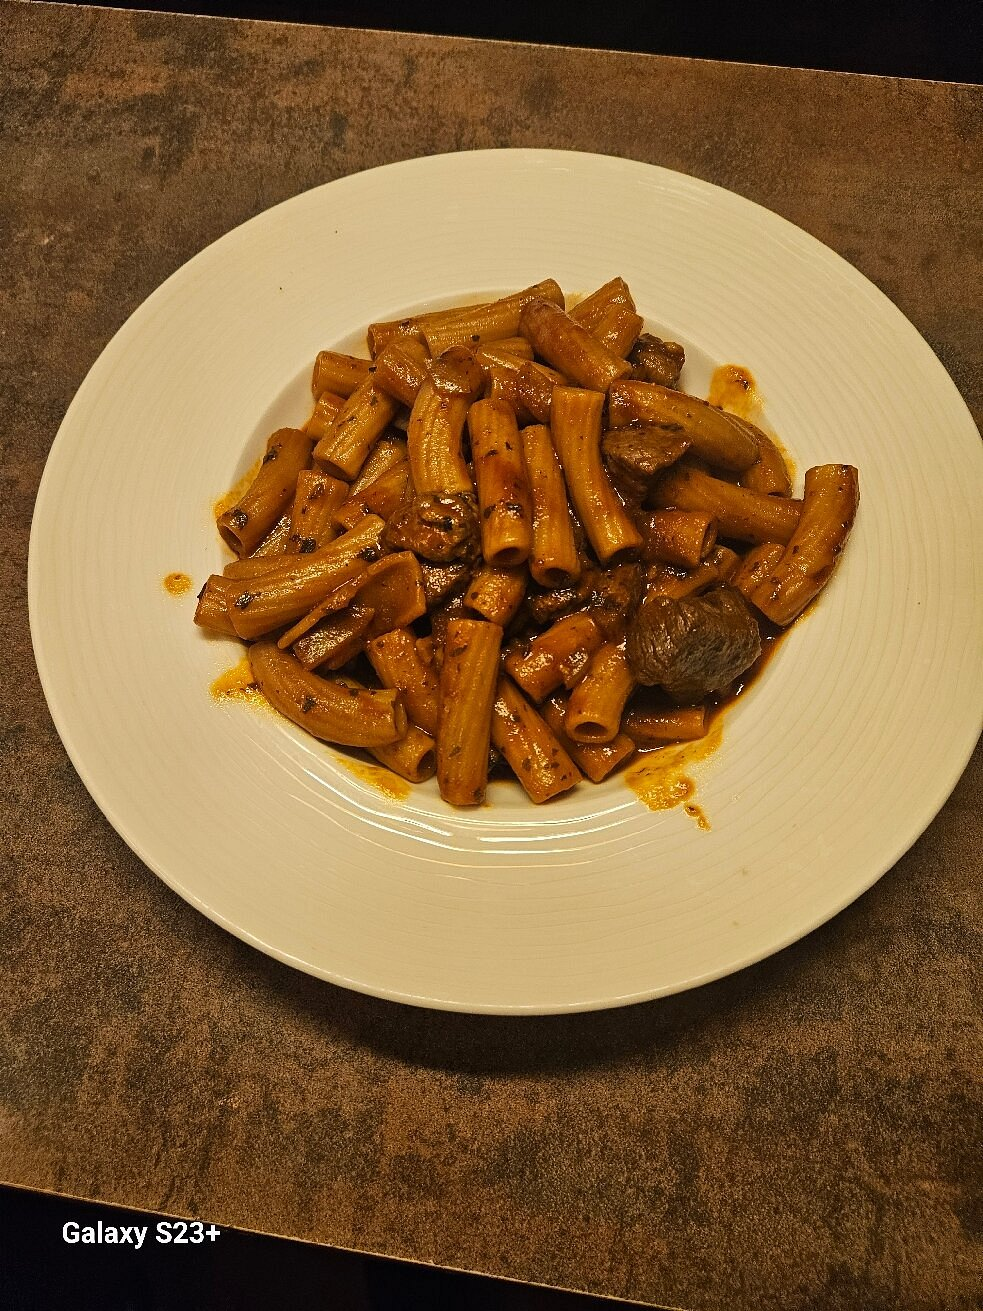
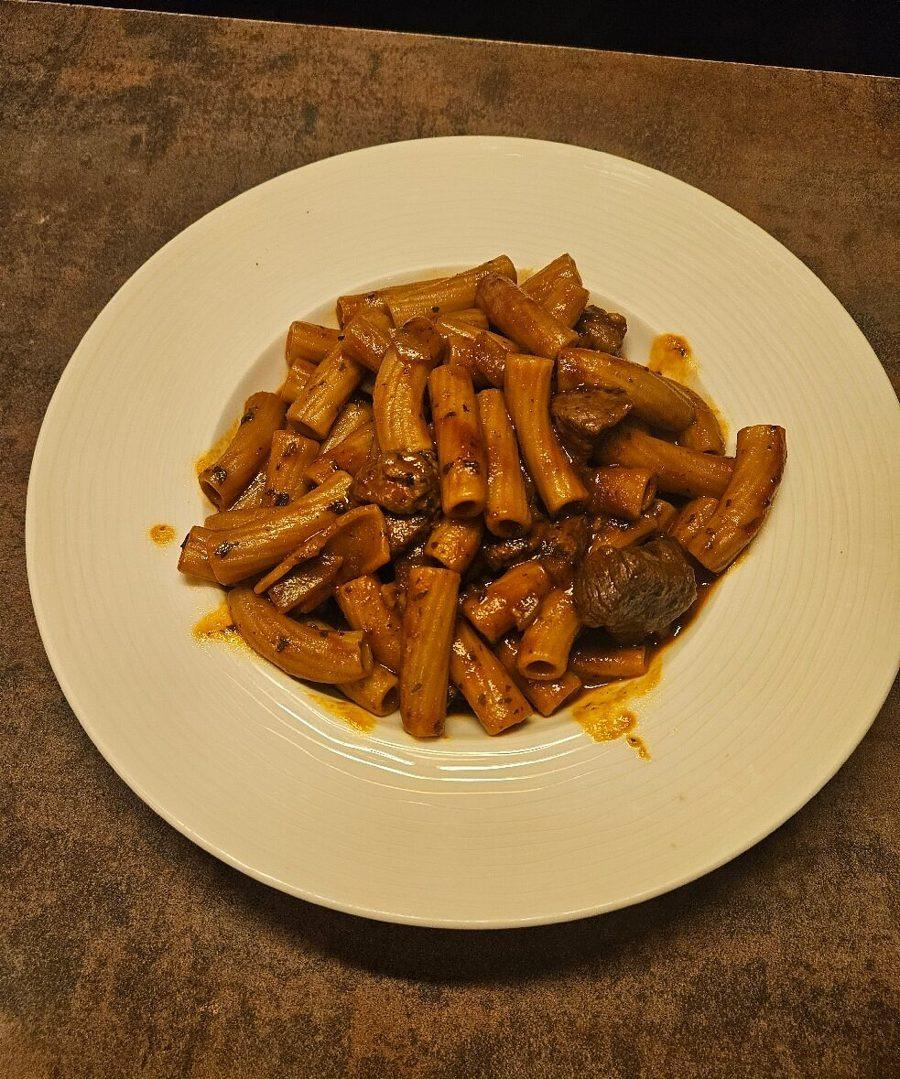
Replace static gallery grid with an auto-scrolling photo marquee
Use the uploaded food1-3 photos in an infinite CSS marquee instead of
static placeholder tiles, per feedback that the grid felt too static.
Pauses on hover, falls back to a plain scrollable strip under
prefers-reduced-motion. Cropped the phone-camera watermark off food1
and re-compressed all three for web (~700KB -> ~190KB avg).

Claude-Session: https://claude.ai/code/session_01Td6RcPkwgkbAMLhnpuJDpR

diff --git a/css/style.css b/css/style.css
@@ -400,13 +400,43 @@ img { max-width: 100%; display: block; }
 /* ---------- Gallery ---------- */
 .gallery { padding: 96px 0; }
 .gallery h2 { font-size: 2.3rem; }
-.gallery-grid {
-  display: grid;
-  grid-template-columns: repeat(3, 1fr);
-  gap: 20px;
-  margin-top: 40px;
+
+.marquee {
+  width: 100vw;
+  position: relative;
+  left: 50%;
+  transform: translateX(-50%);
+  overflow: hidden;
+  margin-top: 44px;
+  mask-image: linear-gradient(90deg, transparent 0, black 80px, black calc(100% - 80px), transparent 100%);
+  -webkit-mask-image: linear-gradient(90deg, transparent 0, black 80px, black calc(100% - 80px), transparent 100%);
 }
-.gallery-item { aspect-ratio: 4 / 3; }
+.marquee-track {
+  display: flex;
+  width: max-content;
+  gap: 20px;
+  padding: 0 20px;
+  animation: marquee-scroll 34s linear infinite;
+}
+.marquee:hover .marquee-track { animation-play-state: paused; }
+.marquee-track img {
+  flex: 0 0 auto;
+  width: 260px;
+  height: 340px;
+  object-fit: cover;
+  border-radius: 4px;
+  box-shadow: 0 8px 24px rgba(22, 50, 74, .12);
+}
+@keyframes marquee-scroll {
+  from { transform: translateX(0); }
+  to { transform: translateX(-50%); }
+}
+@media (prefers-reduced-motion: reduce) {
+  .marquee-track { animation: none; overflow-x: auto; }
+}
+@media (max-width: 640px) {
+  .marquee-track img { width: 200px; height: 260px; }
+}
 
 /* ---------- Contact ---------- */
 .contact { padding: 96px 0; background: var(--pale-blue); }

diff --git a/index.html b/index.html
@@ -135,13 +135,15 @@
     <div class="container">
       <p class="section-eyebrow">Impressionen</p>
       <h2>Ein Blick in unser Ristorante</h2>
-      <div class="gallery-grid">
-        <div class="placeholder-box gallery-item"><p>Foto folgt</p></div>
-        <div class="placeholder-box gallery-item"><p>Foto folgt</p></div>
-        <div class="placeholder-box gallery-item"><p>Foto folgt</p></div>
-        <div class="placeholder-box gallery-item"><p>Foto folgt</p></div>
-        <div class="placeholder-box gallery-item"><p>Foto folgt</p></div>
-        <div class="placeholder-box gallery-item"><p>Foto folgt</p></div>
+    </div>
+    <div class="marquee">
+      <div class="marquee-track">
+        <img src="images/food1.jpg" alt="Rigatoni mit Fleischragù">
+        <img src="images/food2.jpg" alt="Hausgemachtes Tiramisu">
+        <img src="images/food3.jpg" alt="Tagliatelle mit Gambero und Kirschtomaten">
+        <img src="images/food1.jpg" alt="" aria-hidden="true">
+        <img src="images/food2.jpg" alt="" aria-hidden="true">
+        <img src="images/food3.jpg" alt="" aria-hidden="true">
       </div>
     </div>
   </section>
